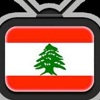
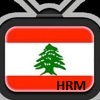
Fix Geo Arabic
and change logo

Changed region(s): [[0.54, 0.78, 0.87, 0.9]]

diff --git a/plugin.video.Lebhrmm/default.py b/plugin.video.Lebhrmm/default.py
@@ -36,7 +36,7 @@ PLAYLIST_PATH12 = 'plugin://plugin.video.youtube/channel/UCfiwzLy-8yKzIbsmZTzxDg
 PLAYLIST_PATH13 = 'plugin://plugin.video.youtube/channel/UCHAbNxkU837UAkZ-OPtdUUw/'
 PLAYLIST_PATH14 = 'plugin://plugin.video.youtube/channel/UC65zwKz2W3NvfAkt5pGs18w/'
 PLAYLIST_PATH15 = 'plugin://plugin.video.youtube/channel/UCM96e_r6hk9tRT0X_McU9pQ/'
-PLAYLIST_PATH16 = 'plugin://plugin.video.youtube/channel/UC2eG5fa3N4I3yFLepNoXaMw/'
+PLAYLIST_PATH16 = 'plugin://plugin.video.youtube/channel/UCAabZOmEpPA2_SsTYkiZ6mA/'
 
 if __name__ == '__main__':
     ADDON = xbmcaddon.Addon()
@@ -107,7 +107,7 @@ if __name__ == '__main__':
             xbmcplugin.addDirectoryItem(HANDLE, PLAYLIST_PATH15, item, True)
             item = xbmcgui.ListItem('Geo Arabic',
                                     ADDON.getLocalizedString(30001),
-                                    iconImage='https://yt3.ggpht.com/-IH1Kcle0oyU/AAAAAAAAAAI/AAAAAAAAAAA/GegRRTep6YU/s100-c-k-no/photo.jpg')
+                                    iconImage='https://yt3.ggpht.com/-nnH2Ah65PSc/AAAAAAAAAAI/AAAAAAAAAAA/1tNpS5HBqvA/s100-c-k-no/photo.jpg')
             xbmcplugin.addDirectoryItem(HANDLE, PLAYLIST_PATH16, item, True)
             
             item = xbmcgui.ListItem('HISHAM MARZOUK',
